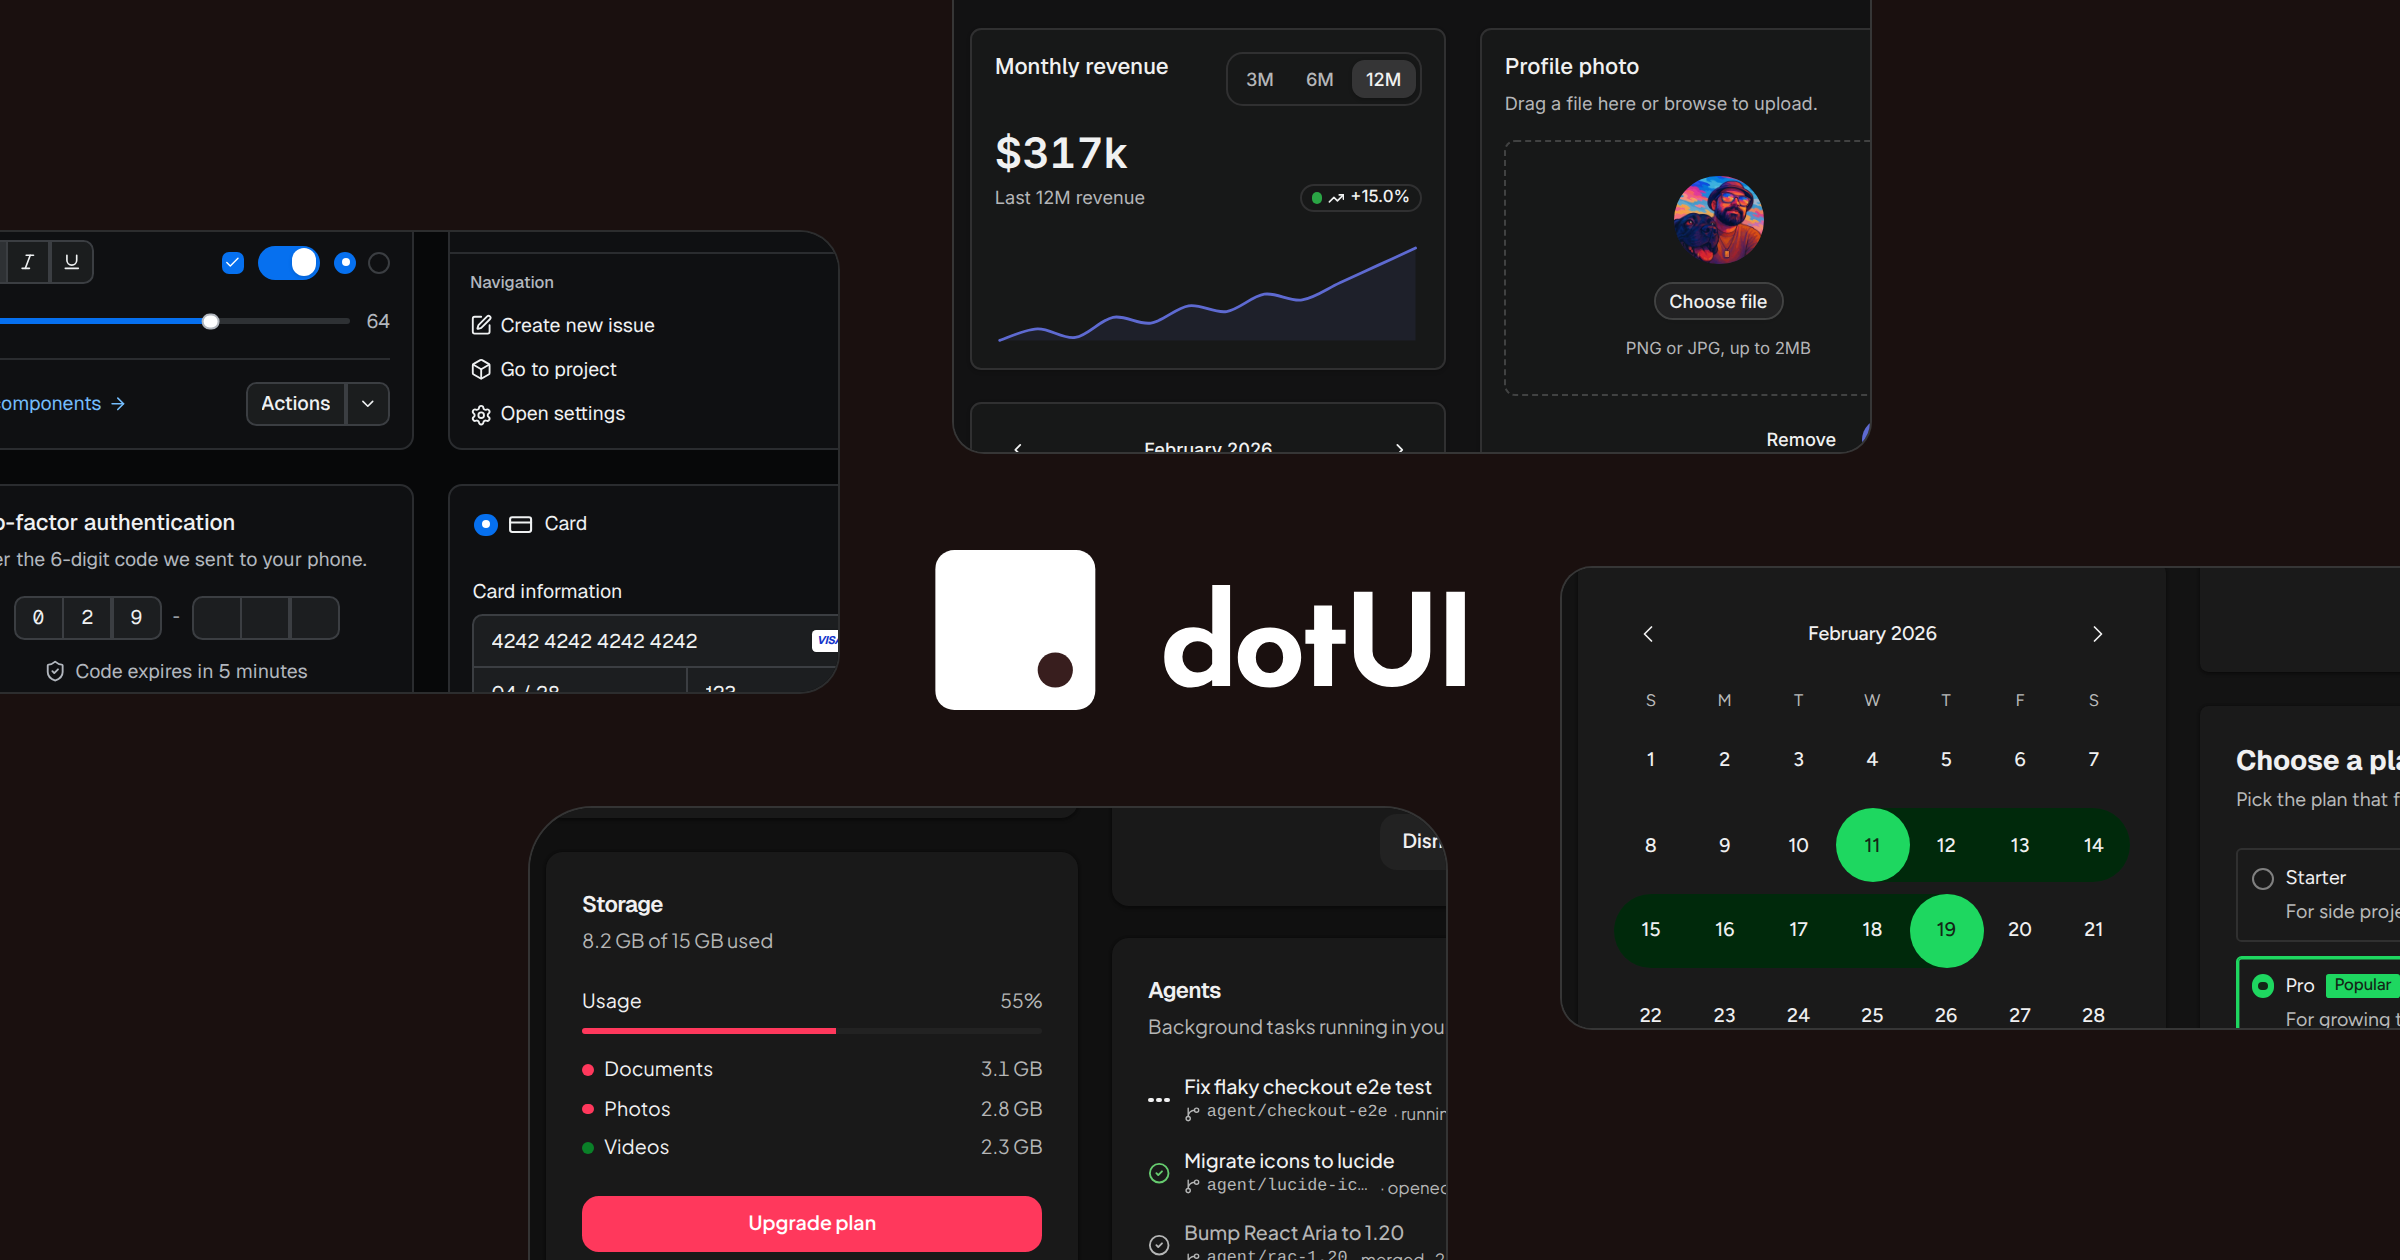
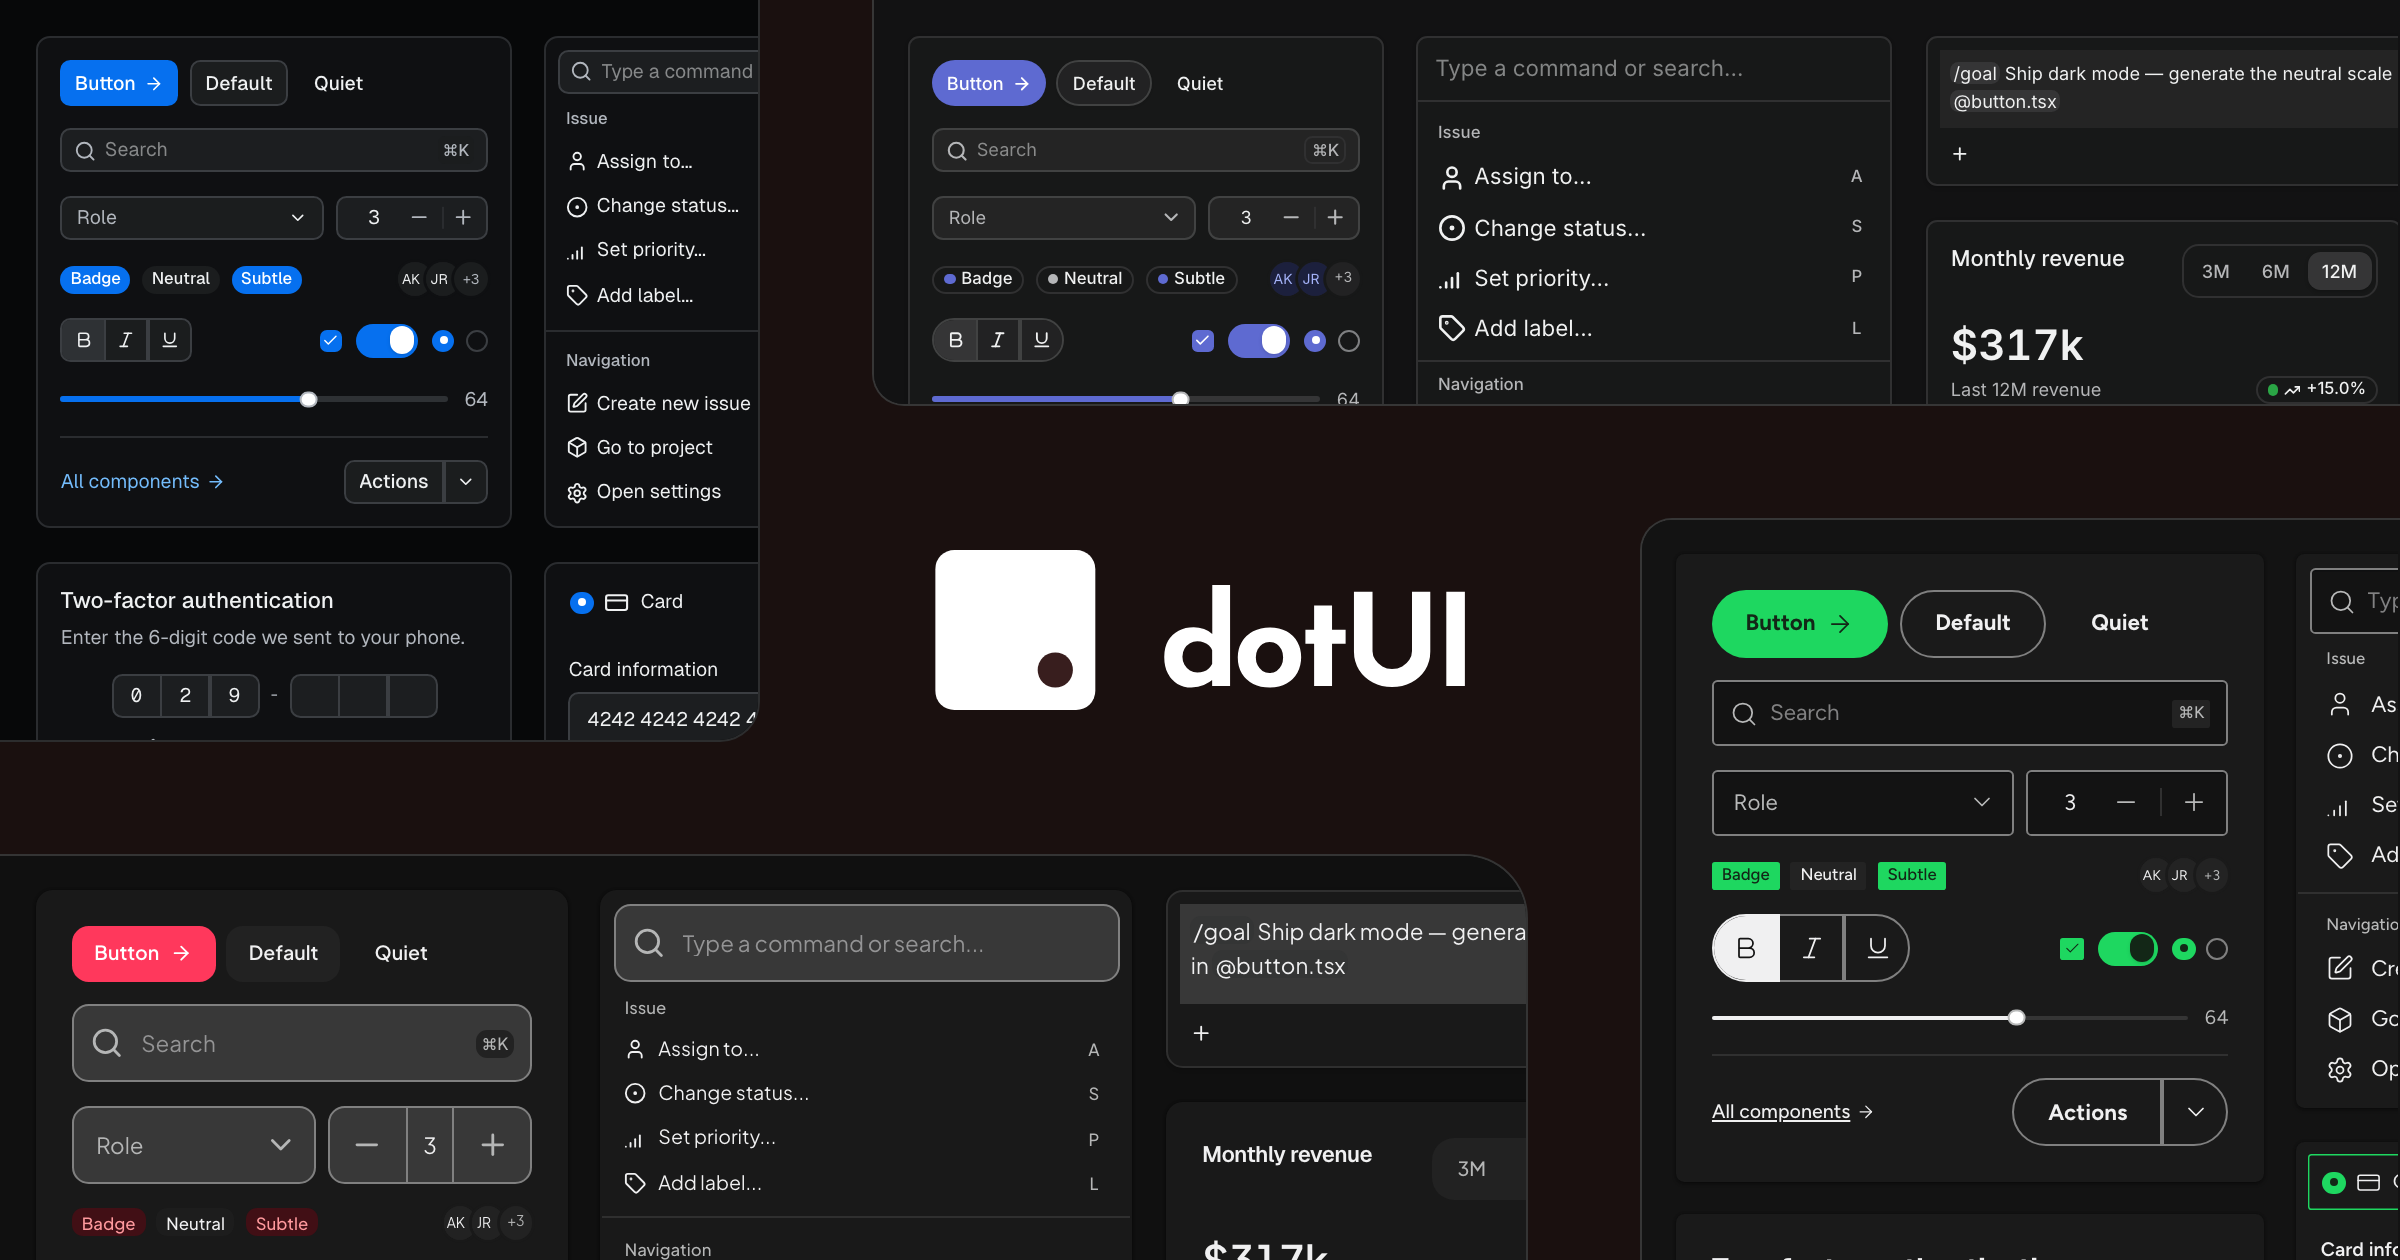
feat(brand): back to the four-preset pinwheel cover

diff --git a/www/src/modules/marketing/cover.tsx b/www/src/modules/marketing/cover.tsx
@@ -6,67 +6,60 @@ import { DesignSystemProvider } from "@/lib/styles"
 import { CardsCanvas } from "@/components/showcase/cards-grid"
 import { resolvePreset } from "@/modules/presets"
 
-// Four equal windows pinwheel around the logo's 2 × HALF_W by 2 × HALF_H clear
-// area, GUTTER apart; each reaches one edge of the 1280×640 canvas and runs
-// BLEED past it.
-const HALF_W = 180
-const HALF_H = 88
+type Side = "top" | "right" | "bottom" | "left"
+
+// The clear area around the logo is 2 × HALF_W by 2 × HALF_H; containers run
+// BLEED past the canvas edge.
+const BLEED = -40
+const HALF_W = 220
+const HALF_H = 112
 const GUTTER = 56
-const WIDTH = 640 - HALF_W
-const HEIGHT = 320 - HALF_H
-const BLEED = 40
-const ZOOM = 0.7
 
 const fromCenter = (px: number) => `calc(50% + ${px}px)`
 
-const SLOTS: {
-  preset: string
-  /** The window's top-left, from the canvas center. */
-  x: number
-  y: number
-  bleed: "left" | "top" | "right" | "bottom"
-  /** Where the window sits in the cards canvas, in canvas pixels. */
-  view: [number, number]
-}[] = [
+const SLOTS: { preset: string; inset: Record<Side, number | string> }[] = [
   {
     preset: "origin",
-    x: -HALF_W - WIDTH,
-    y: HALF_H - GUTTER - HEIGHT,
-    bleed: "left",
-    view: [12, 220],
+    inset: {
+      top: BLEED,
+      left: BLEED,
+      right: fromCenter(HALF_W),
+      bottom: fromCenter(GUTTER - HALF_H),
+    },
   },
   {
     preset: "linear",
-    x: GUTTER - HALF_W,
-    y: -HALF_H - HEIGHT,
-    bleed: "top",
-    view: [740, 130],
+    inset: {
+      top: BLEED,
+      right: BLEED,
+      left: fromCenter(GUTTER - HALF_W),
+      bottom: fromCenter(HALF_H),
+    },
   },
   {
     preset: "spotify",
-    x: HALF_W,
-    y: GUTTER - HALF_H,
-    bleed: "right",
-    view: [900, 470],
+    inset: {
+      bottom: BLEED,
+      right: BLEED,
+      left: fromCenter(HALF_W),
+      top: fromCenter(GUTTER - HALF_H),
+    },
   },
   {
     preset: "airbnb",
-    x: HALF_W - GUTTER - WIDTH,
-    y: HALF_H,
-    bleed: "bottom",
-    view: [416, 1000],
+    inset: {
+      bottom: BLEED,
+      left: BLEED,
+      right: fromCenter(GUTTER - HALF_W),
+      top: fromCenter(HALF_H),
+    },
   },
 ]
 
-function PresetContainer({
-  preset,
-  x,
-  y,
-  bleed,
-  view,
-}: (typeof SLOTS)[number]) {
+function PresetContainer({ preset, inset }: (typeof SLOTS)[number]) {
   const designSystem = resolvePreset(preset)
-  const horizontal = bleed === "left" || bleed === "right"
+  // Bleeding sides pad back to the visible edge; the canvas pads itself.
+  const pad = (side: Side) => (inset[side] === BLEED ? -BLEED : 0)
   return (
     <DesignSystemProvider
       scoped
@@ -79,16 +72,15 @@ function PresetContainer({
     >
       <div
         style={{
-          left: fromCenter(bleed === "left" ? x - BLEED : x),
-          top: fromCenter(bleed === "top" ? y - BLEED : y),
-          width: horizontal ? WIDTH + BLEED : WIDTH,
-          height: horizontal ? HEIGHT : HEIGHT + BLEED,
-          paddingLeft: bleed === "left" ? BLEED : 0,
-          paddingTop: bleed === "top" ? BLEED : 0,
+          ...inset,
+          paddingTop: pad("top"),
+          paddingRight: pad("right"),
+          paddingBottom: pad("bottom"),
+          paddingLeft: pad("left"),
         }}
         className="absolute overflow-hidden rounded-2xl border border-white/15 bg-bg"
       >
-        <div style={{ zoom: ZOOM, marginLeft: -view[0], marginTop: -view[1] }}>
+        <div className="zoom-[0.7]">
           <CardsCanvas />
         </div>
       </div>
